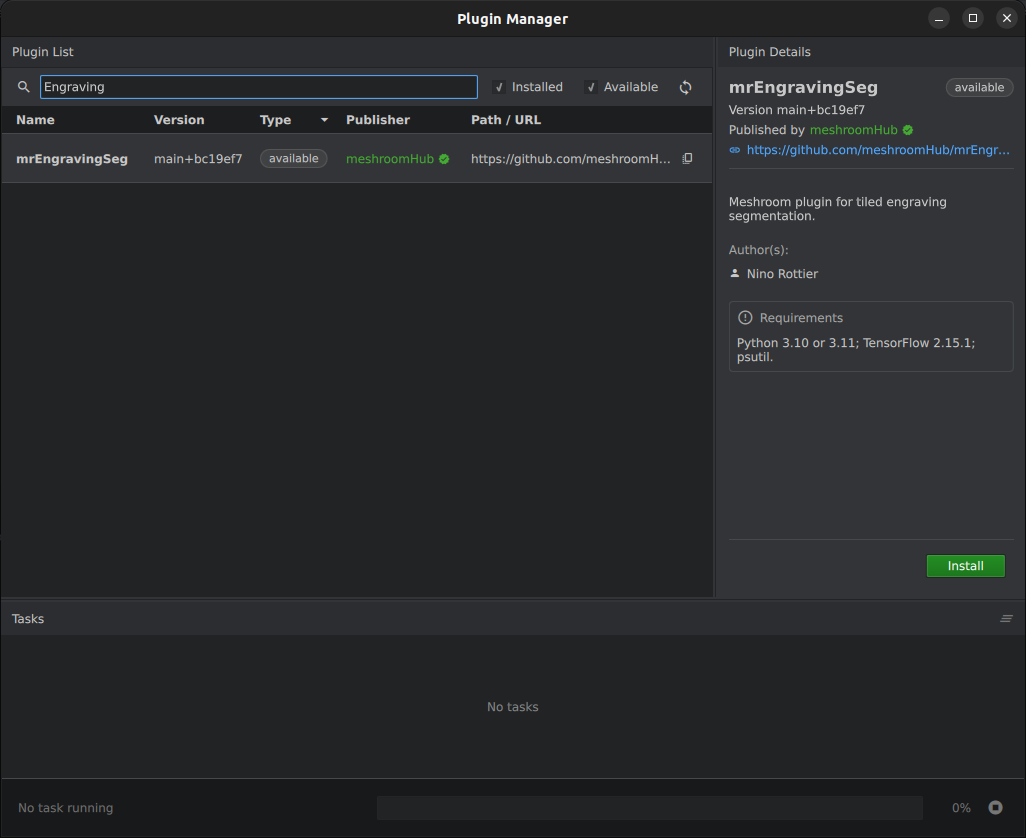
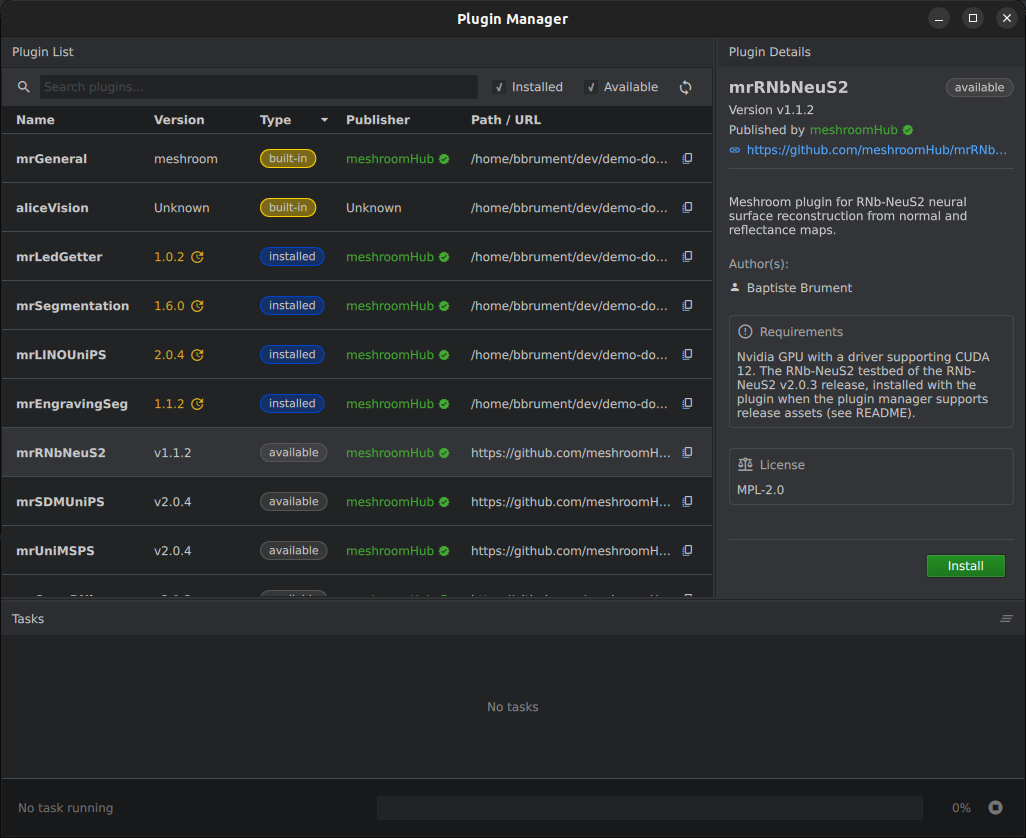
Plugin screenshots: install of mrRNbNeuS2

diff --git a/docs/plugins.md b/docs/plugins.md
@@ -1,7 +1,7 @@
 # Installer les plugins dans Meshroom
 
 Les méthodes de l'atelier sont des **plugins**. Meshroom les télécharge et les installe lui-même, depuis sa fenêtre
-**Plugin Manager**. Les captures montrent l'installation de `mrEngravingSeg` ; les autres plugins s'installent de la même façon.
+**Plugin Manager**. Les captures montrent l'installation de `mrRNbNeuS2` ; les autres plugins s'installent de la même façon.
 
 ## 1. Ouvrir le Plugin Manager
 
@@ -15,9 +15,9 @@ Cliquez sur **New Empty Project**, puis sur le bouton **Manage Plugins** (pièce
 
 ## 2. Choisir un plugin
 
-La liste montre les plugins déjà présents (`installed`) et ceux que l'on peut ajouter (`available`). Tapez un nom dans
-**Search plugins** pour le retrouver, en respectant les majuscules (`Engraving`, pas `engraving`), puis cliquez sur
-sa ligne : sa description s'affiche à droite.
+La liste montre les plugins déjà présents (`installed`) et ceux que l'on peut ajouter (`available`). Cliquez sur la
+ligne d'un plugin : sa description s'affiche à droite. Le champ **Search plugins** filtre la liste, en respectant
+les majuscules (`RNb`, pas `rnb`).
 
 ![Liste des plugins](images/ui_plugin_list.png)
 
